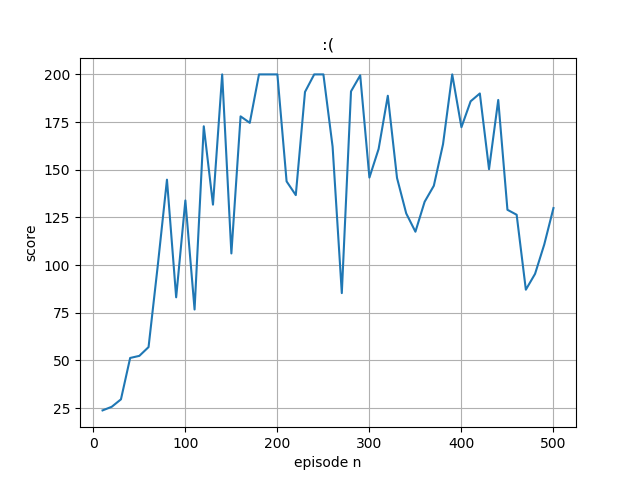
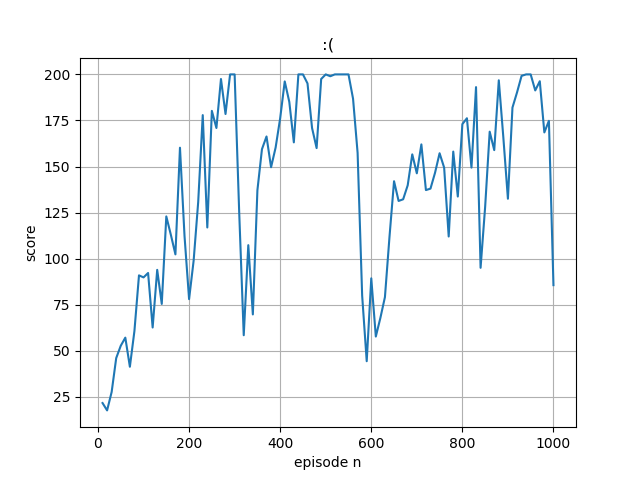
upd

diff --git a/reinforcement learning/A2C/a2c_TD.py b/reinforcement learning/A2C/a2c_TD.py
@@ -19,7 +19,7 @@ critic_model.compile(loss='mean_squared_error', optimizer=tf.keras.optimizers.Ad
 
 env = gym.make('CartPole-v0')
 env.seed(1)
-episodes = 500
+episodes = 1000
 score=0
 episode_n=[]
 mean_score=[]
